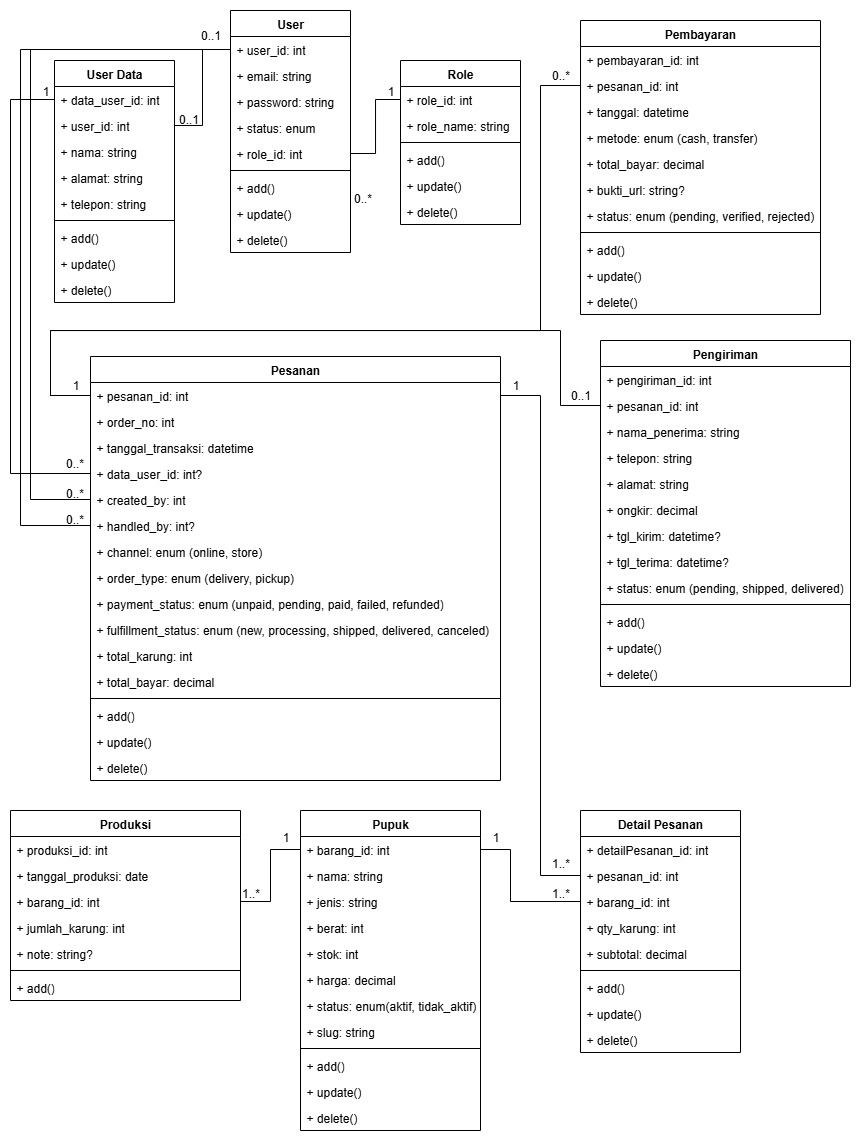
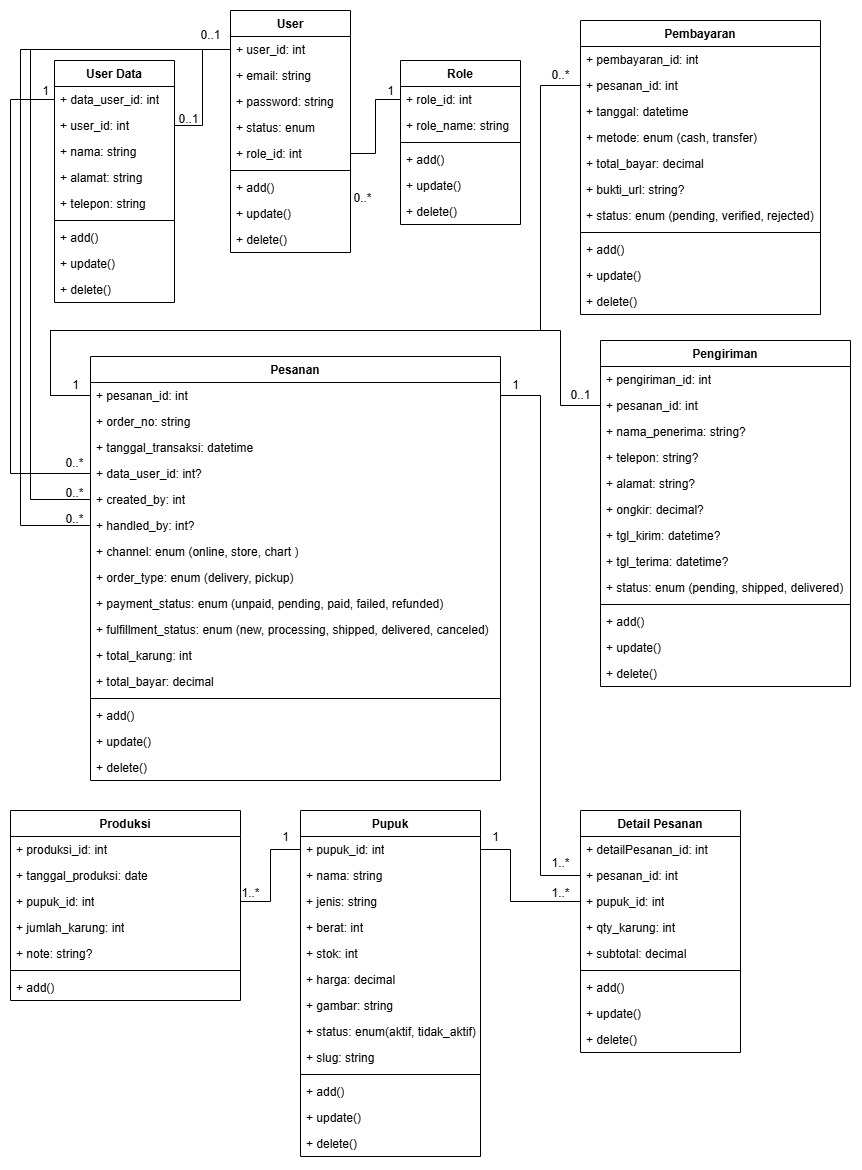
feat: ahhhhh stage change

diff --git a/database/seeders/DatabaseSeeder.php b/database/seeders/DatabaseSeeder.php
@@ -5,9 +5,9 @@ namespace Database\Seeders;
 use App\Models\Role;
 use App\Models\User;
 use App\Models\Pupuk;
-use App\Models\Produksi;
 use App\Models\UserData;
-// use Illuminate\Database\Console\Seeds\WithoutModelEvents;
+use Illuminate\Support\Facades\Hash;
+use Faker\Factory as Faker;
 use Illuminate\Support\Str;
 use Illuminate\Database\Seeder;
 use Illuminate\Support\Facades\Storage;
@@ -72,6 +72,37 @@ class DatabaseSeeder extends Seeder
             'telepon' => '08123456789'
         ]);
 
+        $faker = Faker::create('id_ID');
+        for ($i = 1; $i <= 3; $i++) {
+            $user = User::create([
+                'email' => $faker->unique()->safeEmail(),
+                'password' => Hash::make('karyawan123'),
+                'role_id' => 2,
+            ]);
+
+            UserData::create([
+                'user_id' => $user->user_id ?? $user->id,
+                'nama' => $faker->name(),
+                'alamat' => $faker->address(),
+                'telepon' => $faker->phoneNumber(),
+            ]);
+        }
+
+        for ($i = 1; $i <= 10; $i++) {
+            $user = User::create([
+                'email' => $faker->unique()->safeEmail(),
+                'password' => Hash::make('pelanggan123'),
+                'role_id' => 3,
+            ]);
+
+            UserData::create([
+                'user_id' => $user->user_id ?? $user->id,
+                'nama' => $faker->name(),
+                'alamat' => $faker->address(),
+                'telepon' => $faker->phoneNumber(),
+            ]);
+        }
+
         $dataPupuk = [
             [
                 'nama' => 'Pupuk Organik Serbuk',
@@ -85,7 +116,7 @@ class DatabaseSeeder extends Seeder
                 'nama' => 'Pupuk Organik Granul',
                 'jenis' => 'Organik',
                 'berat' => 50,
-                'stok' => 80,
+                'stok' => 100,
                 'harga' => 75000,
                 'gambar' => 'pupuk_organik_granul.jpg',
             ],

diff --git a/resources/views/components/pesanan/modal-add.blade.php b/resources/views/components/pesanan/modal-add.blade.php
@@ -29,11 +29,11 @@
                 <div class="grid grid-cols-3 gap-3">
                     <div>
                         <label class="block text-sm font-medium text-gray-700">Pupuk</label>
-                        <select name="barang_id[]"
-                            class="barang_id w-full border border-gray-300 rounded-md px-3 py-2 mt-1" required>
+                        <select name="pupuk_id[]"
+                            class="pupuk_id w-full border border-gray-300 rounded-md px-3 py-2 mt-1" required>
                             <option value="">Pilih Pupuk</option>
                             @foreach ($barangs as $barang)
-                                <option value="{{ $barang->barang_id }}" data-harga="{{ $barang->harga }}">
+                                <option value="{{ $barang->pupuk_id }}" data-harga="{{ $barang->harga }}">
                                     {{ $barang->nama }}</option>
                             @endforeach
                         </select>
@@ -128,9 +128,9 @@
         $('#addPupuk').click(() => clonePupukItem('#pupukContainer'));
 
         // Hitung subtotal dan total
-        $(document).on('change keyup', '.barang_id, .total_karung', function() {
+        $(document).on('change keyup', '.pupuk_id, .total_karung', function() {
             let item = $(this).closest('.pupuk-item');
-            let harga = $('option:selected', item.find('.barang_id')).data('harga') || 0;
+            let harga = $('option:selected', item.find('.pupuk_id')).data('harga') || 0;
             let qty = parseInt(item.find('.total_karung').val()) || 0;
             let subtotal = harga * qty;
             item.find('.subtotal').val(subtotal.toFixed(2));

diff --git a/routes/web.php b/routes/web.php
@@ -1,10 +1,7 @@
 <?php
 
 use App\Http\Controllers\AuthController;
-use App\Http\Controllers\Controller;
 use App\Http\Controllers\Dashboard\HomeController as DashboardHomeController;
-use App\Http\Controllers\Dashboard\Laporan\PenjualanController as LaporanPenjualanController;
-use App\Http\Controllers\Dashboard\Laporan\ProduksiController as LaporanProduksiController;
 use App\Http\Controllers\Dashboard\MasterData\KaryawanController;
 use App\Http\Controllers\Dashboard\MasterData\PelangganController;
 use App\Http\Controllers\Dashboard\MasterData\ProduksiController;
